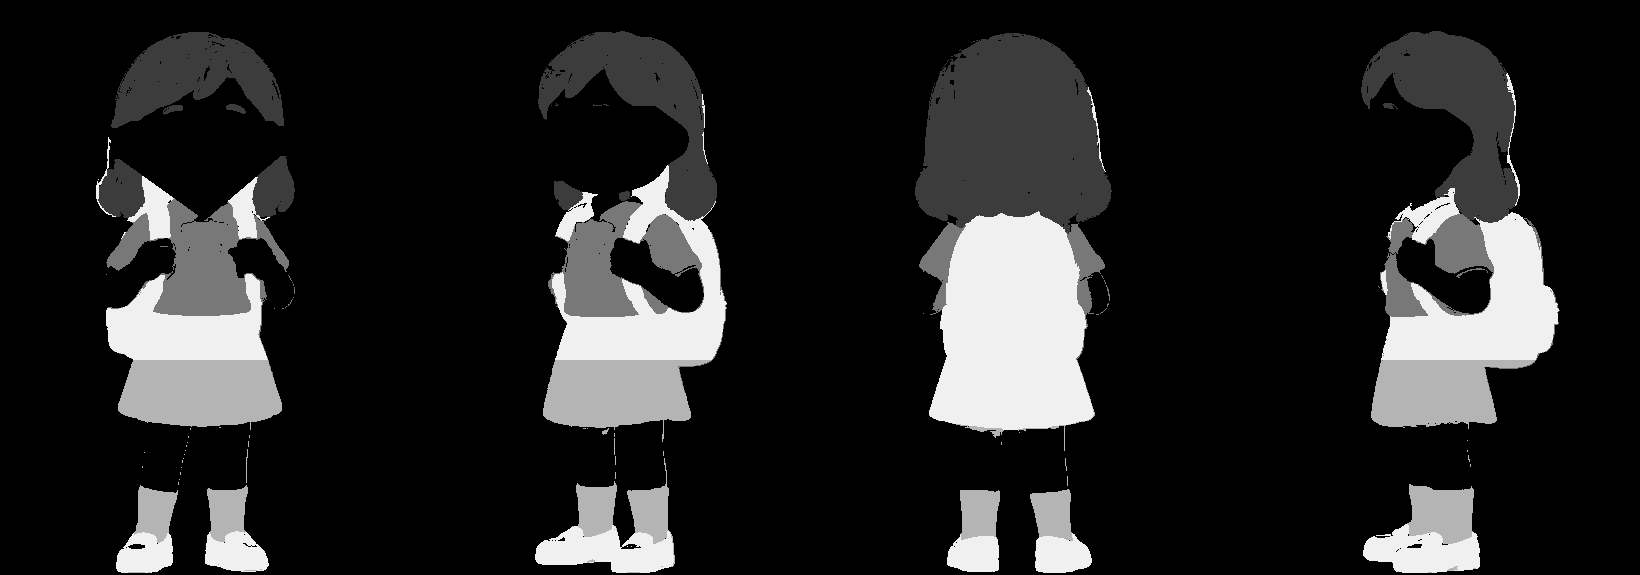
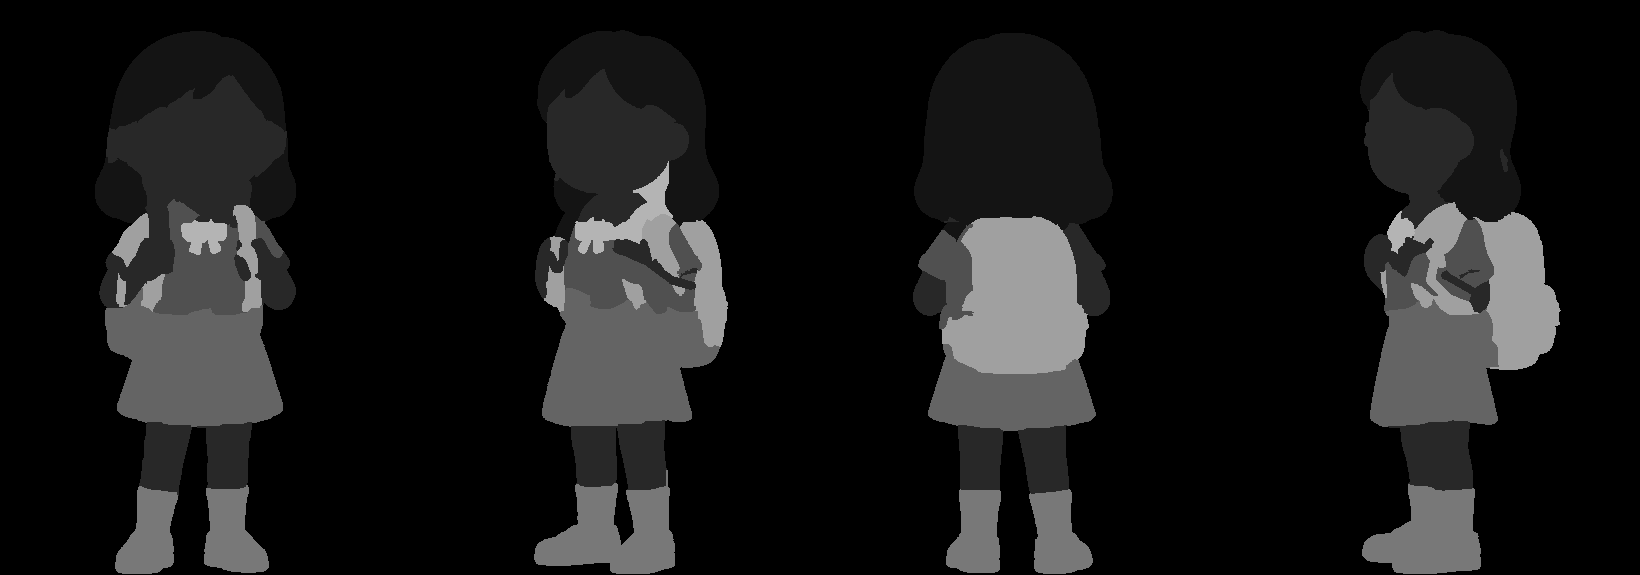
調色盤精修：部位細分為 10 區，換色保留明暗層次與花紋
- 22 套時裝遮罩重新逐套精修：頭髮、膚色、外套、上衣・內搭、褲子・裙子、鞋子・襪子、帽子、背包・包包、圍巾・領帶、手持道具
- 每套只顯示實際有的部位；膚色另有 8 種自然膚色色票，衣物色票增加到 24 色
- 換色改用 YCbCr：新亮度＝目標亮度＋原圖明暗落差，陰影與高光層次照原圖保留
- 自動找出每個部位的底色，花紋、刺繡、格紋、印字保留原色，只換底色
- 舊版 4 區配色自動轉換成新部位，玩家原本存的配色不會遺失

Claude-Session: https://claude.ai/code/session_01VNireVfpciDmdRJiVs3r2A

diff --git a/wardrobe/wardrobe.js b/wardrobe/wardrobe.js
@@ -16,7 +16,7 @@
  */
 (function (global) {
   "use strict";
-  var VER = "3";
+  var VER = "4";
   var BASE = (function () { var s = document.currentScript && document.currentScript.src; return s ? s.replace(/[^/]*$/, "") : "wardrobe/"; })();
 
   // 套裝：id、名稱、分類、價格（智慧星星）、g：MF＝分男女版、U＝男女共用；d：男／女的［斜側、側面］臉朝右＝1、朝左＝-1
@@ -99,31 +99,58 @@
   }
 
   // ---------------------------------------------------------------- 調色盤
-  // 每套時裝都有區域遮罩 img/<套裝>_<m|f>_mask.png（灰階：0 不換色、60 頭髮、120 外套・上衣、180 褲子・裙子、240 鞋子・配件）
-  // 換色時保留原圖的明暗：新顏色 × (像素亮度 ÷ 該區平均亮度)。只處理舞台上目前這一套，畫在 canvas 上。
-  var PARTS4 = [["h", "頭髮", 1], ["t", "外套・上衣", 2], ["b", "褲子・裙子", 3], ["a", "鞋子・配件", 4]];
+  // 每套時裝都有區域遮罩 img/<套裝>_<m|f>_mask.png，灰階值 = 部位編號 × 20：
+  // 1 頭髮、2 膚色、3 外套、4 上衣・內搭、5 褲子・裙子、6 鞋子・襪子、7 帽子、8 背包・包包、9 圍巾・領帶、10 手持道具。
+  // 換色方式（v2）：
+  //   ・保留明暗層次：在 YCbCr 色彩空間中，新亮度 = 目標亮度 + (像素亮度 − 該部位主色亮度)，陰影與高光的落差照原圖保留。
+  //   ・保留圖案：先找出每個部位的「主色」（底色），越接近底色的像素換得越完整；
+  //     顏色差很多的花紋、刺繡、印字、格紋線條會保留原色，只換底色。
+  var PARTS10 = [["h", "頭髮", 1, "h"], ["sk", "膚色", 2, "s"], ["o", "外套", 3, "c"], ["i", "上衣・內搭", 4, "c"], ["b", "褲子・裙子", 5, "c"],
+    ["sh", "鞋子・襪子", 6, "c"], ["hat", "帽子", 7, "c"], ["bag", "背包・包包", 8, "c"], ["sc", "圍巾・領帶", 9, "c"], ["it", "手持道具", 10, "c"]];
+  // 每套時裝實際有的部位（由遮罩統計，面積太小的不列出）
+  var HAS = {"ball_f": "h sk i b sh it", "ball_m": "h sk i b sh it", "biz_f": "h sk o i b sh it", "biz_m": "h sk o i b sh sc it", "bp_f": "h sk o i b sh bag", "bp_m": "h sk o i b sh bag it",
+    "sage_f": "h sk o i b sh bag it", "sage_m": "h sk o i b sh bag it", "school_f": "h sk i b sh bag sc", "school_m": "h sk i b sh bag", "sci_f": "h sk o i b sh it", "sci_m": "h sk o i b sh it",
+    "story_f": "h sk o i b sh bag sc it", "story_m": "h sk o i b sh bag sc it", "swim_f": "h sk i b sh hat bag it", "swim_m": "h sk o b sh hat bag it", "teach_f": "h sk o i b sh it", "teach_m": "h sk o i b sh it",
+    "wiz_f": "h sk o i sh it", "wiz_m": "h sk o i sh it", "yoga_f": "h sk o i b sh bag it", "yoga_m": "h sk o i b sh bag it"};
+  function partsOf(id, g) { var hs = (HAS[id + "_" + g] || "h sk o i b sh").split(" "); return PARTS10.filter(function (q) { return hs.indexOf(q[0]) >= 0; }); }
   var PAL = {
     h: [["自然黑", "#2b2522"], ["深咖啡", "#4a3020"], ["栗子棕", "#7a4a2a"], ["焦糖", "#a8703f"], ["亞麻金", "#d8b06a"], ["白金", "#eadfc6"], ["銀灰", "#a9a9b0"], ["酒紅", "#7c2f3a"],
         ["玫瑰粉", "#e48aa8"], ["珊瑚橘", "#e8794f"], ["薰衣紫", "#9a7fd1"], ["星空藍", "#3f5fb0"], ["薄荷綠", "#6fc2a6"], ["天空藍", "#7ec4ea"], ["檸檬黃", "#efd35a"], ["火焰紅", "#c8343a"]],
+    s: [["白皙", "#f7dfcc"], ["粉嫩", "#f2c8b2"], ["自然", "#e6b590"], ["小麥", "#d29a70"], ["蜜糖", "#bb7f55"], ["古銅", "#9a6240"], ["可可", "#77482e"], ["深棕", "#563220"]],
     c: [["純白", "#f4f1ea"], ["米白", "#e8dcc4"], ["卡其", "#c8ad7f"], ["咖啡", "#7a5236"], ["炭灰", "#4a4a50"], ["墨黑", "#24242a"], ["海軍藍", "#2c3e6b"], ["天空藍", "#7fb3e0"],
-        ["湖水綠", "#4fa79a"], ["森林綠", "#3f6b45"], ["橄欖綠", "#8a8f4e"], ["檸檬黃", "#efcf4a"], ["南瓜橘", "#e07b39"], ["番茄紅", "#c9413b"], ["櫻花粉", "#f0a7bf"], ["葡萄紫", "#7b5aa6"]]
+        ["湖水綠", "#4fa79a"], ["森林綠", "#3f6b45"], ["橄欖綠", "#8a8f4e"], ["檸檬黃", "#efcf4a"], ["南瓜橘", "#e07b39"], ["番茄紅", "#c9413b"], ["櫻花粉", "#f0a7bf"], ["葡萄紫", "#7b5aa6"],
+        ["薰衣紫", "#b7a2dd"], ["薄荷綠", "#9ed9c3"], ["蜜桃橘", "#f4b48a"], ["酒紅", "#7c2f3a"], ["寶石藍", "#2f62c9"], ["香檳金", "#d9b56c"], ["銀灰", "#b9bcc4"], ["可可棕", "#5a3a28"]]
   };
-  function palOf(k) { return k === "h" ? PAL.h : PAL.c; }
+  function palOf(q) { return PAL[q[3]] || PAL.c; }
+  var HEX = /^#[0-9a-f]{6}$/i;
   function colStore(p, id) {
     var w = wd(p); if (!w.col || typeof w.col !== "object") w.col = {};
-    var c = w.col[id]; if (!c || !Array.isArray(c.sets)) c = w.col[id] = { act: -1, sets: [{}, {}, {}] };
+    var c = w.col[id]; if (!c || !Array.isArray(c.sets)) c = w.col[id] = { v: 2, act: -1, sets: [{}, {}, {}] };
     while (c.sets.length < 3) c.sets.push({});
     if (!(c.act >= -1 && c.act <= 2)) c.act = -1;
+    if (c.v !== 2) {   // 舊版 4 區配色 → 新版部位
+      c.sets = c.sets.map(function (s) {
+        var n = {}; if (!s || typeof s !== "object") return n;
+        if (HEX.test(s.h || "")) n.h = s.h;
+        if (HEX.test(s.t || "")) { n.o = s.t; n.i = s.t; }
+        if (HEX.test(s.b || "")) n.b = s.b;
+        if (HEX.test(s.a || "")) { n.sh = s.a; n.hat = s.a; n.bag = s.a; n.sc = s.a; n.it = s.a; }
+        return n;
+      });
+      c.v = 2;
+    }
     return c;
   }
-  function activeCols(p, id) {   // 目前套用的配色（{h,t,b,a}）；原色或未擁有時回傳 null
+  function activeCols(p, id) {   // 目前套用的配色；原色或未擁有時回傳 null
     if (!owns(p, id)) return null;
-    var c = wd(p).col && wd(p).col[id]; if (!c || c.act < 0) return null;
-    var set = c.sets[c.act] || {}, any = false; for (var k in set) if (/^#[0-9a-f]{6}$/i.test(set[k])) any = true;
+    var w = wd(p); if (!w.col || !w.col[id]) return null;
+    var c = colStore(p, id); if (c.act < 0) return null;
+    var set = c.sets[c.act] || {}, any = false; for (var k in set) if (HEX.test(set[k])) any = true;
     return any ? set : null;
   }
   function hexRGB(h) { var n = parseInt(h.slice(1), 16); return [(n >> 16) & 255, (n >> 8) & 255, n & 255]; }
-  var RC = { key: "", base: null, mask: null, mean: null, cv: null, busy: null };   // 只快取目前這一套
+  function ycc(r, g, b) { return [0.299 * r + 0.587 * g + 0.114 * b, -0.168736 * r - 0.331264 * g + 0.5 * b, 0.5 * r - 0.418688 * g - 0.081312 * b]; }
+  var RC = { key: "", base: null, mask: null, info: null, cv: null, busy: null };   // 只快取目前這一套
   function loadImg(u) { return new Promise(function (res, rej) { var im = new Image(); im.decoding = "async"; im.onload = function () { res(im); }; im.onerror = rej; im.src = u; }); }
   function prep(id, g) {
     var k = id + "_" + g;
@@ -134,27 +161,64 @@
       var W = ims[0].naturalWidth, Hh = ims[0].naturalHeight, c = document.createElement("canvas"); c.width = W; c.height = Hh;
       var x = c.getContext("2d"); x.drawImage(ims[0], 0, 0); var base = x.getImageData(0, 0, W, Hh);
       x.clearRect(0, 0, W, Hh); x.drawImage(ims[1], 0, 0, W, Hh); var md = x.getImageData(0, 0, W, Hh).data;
-      var mask = new Uint8Array(W * Hh), sum = [0, 0, 0, 0, 0], cnt = [0, 0, 0, 0, 0], b = base.data;
-      for (var i = 0, j = 0; i < mask.length; i++, j += 4) {
-        var r = Math.round(md[j] / 60); if (r > 4) r = 4; if (b[j + 3] < 40) r = 0; mask[i] = r;
-        if (r) { sum[r] += 0.299 * b[j] + 0.587 * b[j + 1] + 0.114 * b[j + 2]; cnt[r]++; }
+      var N = W * Hh, mask = new Uint8Array(N), b = base.data, i, j, r;
+      // 每個部位的色度直方圖（Cb、Cr 各 32 格），用來找主色
+      var hist = []; for (r = 0; r <= 10; r++) hist.push(new Float32Array(1024));
+      for (i = 0, j = 0; i < N; i++, j += 4) {
+        r = Math.round(md[j] / 20); if (r > 10) r = 10; if (b[j + 3] < 8) r = 0; mask[i] = r;
+        if (r && b[j + 3] > 128) {
+          var q = ycc(b[j], b[j + 1], b[j + 2]), cb = (q[1] + 128) >> 3, cr = (q[2] + 128) >> 3;
+          hist[r][(cb < 0 ? 0 : cb > 31 ? 31 : cb) * 32 + (cr < 0 ? 0 : cr > 31 ? 31 : cr)] += 1;
+        }
       }
-      RC.key = k; RC.base = base; RC.mask = mask; RC.mean = sum.map(function (s, i) { return cnt[i] ? s / cnt[i] : 128; }); RC.cv = c; RC.busy = null;
+      var info = [null];
+      for (r = 1; r <= 10; r++) {
+        var hst = hist[r], best = -1, bi = 0;
+        for (var u = 0; u < 1024; u++) {   // 3×3 平滑後取最多的格子
+          var cu = u >> 5, cv = u & 31, s = 0;
+          for (var du = -1; du <= 1; du++) for (var dv = -1; dv <= 1; dv++) { var uu = cu + du, vv = cv + dv; if (uu >= 0 && uu < 32 && vv >= 0 && vv < 32) s += hst[uu * 32 + vv]; }
+          if (s > best) { best = s; bi = u; }
+        }
+        info.push(best > 0 ? { cb: ((bi >> 5) << 3) - 124, cr: ((bi & 31) << 3) - 124, y: 0, n: 0, sd: 0 } : null);
+      }
+      // 主色附近像素的平均亮度與色度（精修主色）
+      var acc = []; for (r = 0; r <= 10; r++) acc.push([0, 0, 0, 0, 0]);
+      for (i = 0, j = 0; i < N; i++, j += 4) {
+        r = mask[i]; if (!r || !info[r] || b[j + 3] < 128) continue;
+        var p2 = ycc(b[j], b[j + 1], b[j + 2]), dcb = p2[1] - info[r].cb, dcr = p2[2] - info[r].cr;
+        if (dcb * dcb + dcr * dcr < 196) { var A = acc[r]; A[0] += p2[0]; A[1] += p2[1]; A[2] += p2[2]; A[3]++; A[4] += p2[0] * p2[0]; }
+      }
+      for (r = 1; r <= 10; r++) if (info[r] && acc[r][3]) {
+        var Z = acc[r]; info[r].y = Z[0] / Z[3]; info[r].cb = Z[1] / Z[3]; info[r].cr = Z[2] / Z[3]; info[r].n = Z[3];
+        info[r].sd = Math.sqrt(Math.max(0, Z[4] / Z[3] - info[r].y * info[r].y));
+      }
+      RC.key = k; RC.base = base; RC.mask = mask; RC.info = info; RC.cv = c; RC.busy = null;
     });
     return RC.busy;
   }
-  function paint(cols) {   // 依配色畫到 RC.cv
-    var b = RC.base, out = new ImageData(new Uint8ClampedArray(b.data), b.width, b.height), o = out.data, m = RC.mask, mean = RC.mean, T = [null, null, null, null, null];
-    PARTS4.forEach(function (q) { var h = cols[q[0]]; if (/^#[0-9a-f]{6}$/i.test(h || "")) T[q[2]] = hexRGB(h); });
+  function paint(cols, id, g) {   // 依配色畫到 RC.cv
+    var b = RC.base, out = new ImageData(new Uint8ClampedArray(b.data), b.width, b.height), o = out.data, m = RC.mask, info = RC.info, T = [];
+    PARTS10.forEach(function (q) {
+      var h = cols[q[0]], f = info[q[2]]; if (!HEX.test(h || "") || !f) return;
+      var t = hexRGB(h), ty = ycc(t[0], t[1], t[2]);
+      // 亮度落差的縮放：目標比原色亮很多或暗很多時，稍微調整層次，避免整片過曝或死黑
+      var sc = Math.sqrt((ty[0] + 30) / (f.y + 30)); if (sc < 0.7) sc = 0.7; if (sc > 1.35) sc = 1.35;
+      T[q[2]] = { y: ty[0], cb: ty[1], cr: ty[2], by: f.y, bcb: f.cb, bcr: f.cr, sc: sc };
+    });
     for (var i = 0, j = 0; i < m.length; i++, j += 4) {
-      var r = m[i], t = r && T[r]; if (!t) continue;
-      var L = 0.299 * o[j] + 0.587 * o[j + 1] + 0.114 * o[j + 2], k = L / mean[r]; if (k > 1.8) k = 1.8;
-      var lift = k > 1 ? (k - 1) * 60 : 0;
-      o[j] = t[0] * k + lift; o[j + 1] = t[1] * k + lift; o[j + 2] = t[2] * k + lift;
+      var t = T[m[i]]; if (!t || !o[j + 3]) continue;
+      var R = o[j], G = o[j + 1], B = o[j + 2];
+      var Y = 0.299 * R + 0.587 * G + 0.114 * B, Cb = -0.168736 * R - 0.331264 * G + 0.5 * B, Cr = 0.5 * R - 0.418688 * G - 0.081312 * B;
+      var dcb = Cb - t.bcb, dcr = Cr - t.bcr, d = Math.sqrt(dcb * dcb + dcr * dcr);
+      // 權重：接近底色 → 1，花紋（色差大）→ 0
+      var w = d < 14 ? 1 : d > 34 ? 0 : 1 - (d - 14) / 20; if (w <= 0) continue;
+      var ny = t.y + (Y - t.by) * t.sc, ncb = t.cb + dcb * 0.25, ncr = t.cr + dcr * 0.25;
+      var nr = ny + 1.402 * ncr, ng = ny - 0.344136 * ncb - 0.714136 * ncr, nb = ny + 1.772 * ncb;
+      o[j] = R + (nr - R) * w; o[j + 1] = G + (ng - G) * w; o[j + 2] = B + (nb - B) * w;
     }
     RC.cv.getContext("2d").putImageData(out, 0, 0);
   }
-  function freePaint() { RC.key = ""; RC.base = null; RC.mask = null; RC.cv = null; }
+  function freePaint() { RC.key = ""; RC.base = null; RC.mask = null; RC.info = null; RC.cv = null; }
   // 把換色後的 canvas 放進舞台（取代 <img>）
   function applyStage(p) {
     var el = S.root && S.root.querySelector("#wd-card .wd-fr"); if (!el) return;
@@ -164,30 +228,34 @@
     prep(id, g).then(function () {
       if (ticket !== S.paintT) return;
       var fr = S.root.querySelector("#wd-card .wd-fr"); if (!fr) return;
-      paint(cols);
+      paint(cols, id, g);
       var img = fr.querySelector("img"); if (!fr.contains(RC.cv)) fr.appendChild(RC.cv);
       RC.cv.className = "wd-cv"; RC.cv.style.left = img ? img.style.left : "0";
       if (img) img.style.visibility = "hidden";
     }, function () {});
   }
+  function curPart(id, g) {
+    var ps = partsOf(id, g), k = S.part; for (var i = 0; i < ps.length; i++) if (ps[i][0] === k) return ps[i];
+    return ps[0];
+  }
   function palHTML(p, id, o) {
     if (!S.pal) return "";
     if (!owns(p, id)) return '<div class="wd-pal"><p class="wd-note">兌換這套時裝之後，就可以用調色盤自由換顏色。</p></div>';
-    var c = colStore(p, id), set = c.act >= 0 ? c.sets[c.act] : {}, part = S.part || "h";
+    var g = wd(p).g, c = colStore(p, id), set = c.act >= 0 ? c.sets[c.act] : {}, pq = curPart(id, g), part = pq[0];
     var h = '<div class="wd-pal" aria-label="調色盤">';
     h += '<div class="wd-sch" role="group" aria-label="配色方案">' + [-1, 0, 1, 2].map(function (i) {
       return '<button type="button" data-wd="sch" data-v="' + i + '"' + (c.act === i ? ' class="on" aria-pressed="true"' : ' aria-pressed="false"') + ">" + (i < 0 ? "原色" : "配色 " + (i + 1)) + "</button>"; }).join("") + "</div>";
-    h += '<div class="wd-parts" role="tablist">' + PARTS4.map(function (q) {
+    h += '<div class="wd-parts" role="tablist" aria-label="要換色的部位">' + partsOf(id, g).map(function (q) {
       var v = set[q[0]]; return '<button type="button" role="tab" aria-selected="' + (part === q[0]) + '" data-wd="part" data-v="' + q[0] + '"' + (part === q[0] ? ' class="on"' : "") + '><i style="background:' + (v || "transparent") + '"' + (v ? "" : ' class="none"') + "></i>" + q[1] + "</button>"; }).join("") + "</div>";
     var cur = set[part];
-    h += '<div class="wd-sw">' + '<button type="button" class="wd-sw0' + (!cur ? " on" : "") + '" data-wd="col" data-v="" aria-label="原本的顏色" title="原本的顏色"></button>' +
-      palOf(part).map(function (x) { return '<button type="button" data-wd="col" data-v="' + x[1] + '" style="background:' + x[1] + '"' + (cur && cur.toLowerCase() === x[1] ? ' class="on"' : "") + ' aria-label="' + x[0] + '" title="' + x[0] + '"></button>'; }).join("") + "</div>";
-    h += '<div class="wd-palf"><span>' + (c.act < 0 ? "目前是原色。點顏色會存進「配色 1」。" : "自動儲存在「配色 " + (c.act + 1) + "」，可以隨時切換。") + "</span>" +
+    h += '<div class="wd-sw' + (pq[3] === "s" ? " wd-sw-s" : "") + '">' + '<button type="button" class="wd-sw0' + (!cur ? " on" : "") + '" data-wd="col" data-v="" aria-label="原本的顏色" title="原本的顏色"></button>' +
+      palOf(pq).map(function (x) { return '<button type="button" data-wd="col" data-v="' + x[1] + '" style="background:' + x[1] + '"' + (cur && cur.toLowerCase() === x[1] ? ' class="on"' : "") + ' aria-label="' + x[0] + '" title="' + x[0] + '"></button>'; }).join("") + "</div>";
+    h += '<div class="wd-palf"><span>' + (c.act < 0 ? "目前是原色。點顏色會存進「配色 1」。花紋與刺繡會保留，只換底色。" : "自動儲存在「配色 " + (c.act + 1) + "」，可以隨時切換。") + "</span>" +
       (c.act >= 0 ? '<button type="button" class="wd-mini" data-wd="clr">清除這組配色</button>' : "") + "</div></div>";
     return h;
   }
   function pickCol(p, id, hex) {
-    var c = colStore(p, id), part = S.part || "h";
+    var c = colStore(p, id), part = curPart(id, wd(p).g)[0];
     if (c.act < 0) { c.act = 0; for (var i = 0; i < 3; i++) if (!Object.keys(c.sets[i]).length) { c.act = i; break; } }
     if (hex) c.sets[c.act][part] = hex; else delete c.sets[c.act][part];
     H.save();

diff --git a/wardrobe/wardrobe.css b/wardrobe/wardrobe.css
@@ -66,7 +66,7 @@
 .wd-sch{display:flex;gap:6px;margin-bottom:8px}
 .wd-sch button{flex:1;border:1.5px solid rgba(255,255,255,.22);border-radius:10px;background:none;color:#dfe6ff;font:inherit;font-size:12px;font-weight:700;padding:6px 0;min-height:32px;cursor:pointer}
 .wd-sch button.on{background:#ffd36b;color:#1b2236;border-color:#ffd36b}
-.wd-parts{display:grid;grid-template-columns:repeat(4,minmax(0,1fr));gap:5px;margin-bottom:8px}
+.wd-parts{display:grid;grid-template-columns:repeat(auto-fill,minmax(60px,1fr));gap:5px;margin-bottom:8px}
 .wd-parts button{display:flex;flex-direction:column;align-items:center;gap:4px;border:1.5px solid rgba(255,255,255,.16);border-radius:10px;background:rgba(13,18,34,.45);color:#dfe6ff;font:inherit;font-size:10.5px;font-weight:700;padding:6px 2px;cursor:pointer;line-height:1.2}
 .wd-parts button.on{border-color:#ffd36b;color:#ffd36b}
 .wd-parts i{display:block;width:18px;height:18px;border-radius:50%;border:1.5px solid rgba(255,255,255,.6)}

diff --git a/index.html b/index.html
@@ -1184,8 +1184,8 @@
 <script src="cloud.js?v=5"></script>
 <script src="q11/q11-data.js?v=1"></script>
 <script src="q11/q11.js?v=2"></script>
-<link rel="stylesheet" href="wardrobe/wardrobe.css?v=3">
-<script src="wardrobe/wardrobe.js?v=3"></script>
+<link rel="stylesheet" href="wardrobe/wardrobe.css?v=4">
+<script src="wardrobe/wardrobe.js?v=4"></script>
 <script>
 (function () {
   "use strict";
